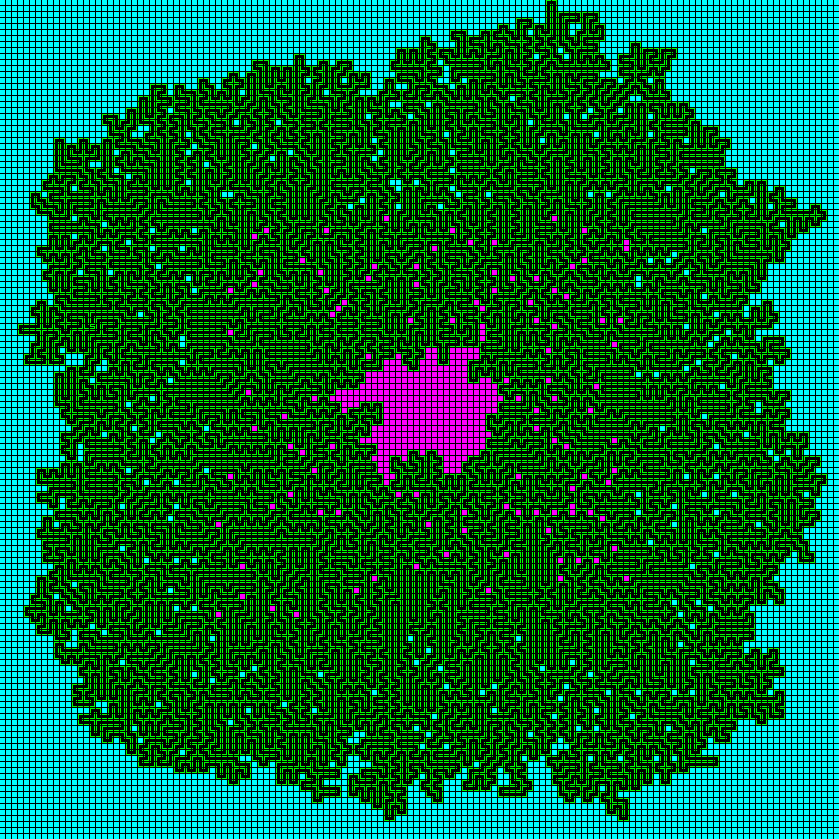
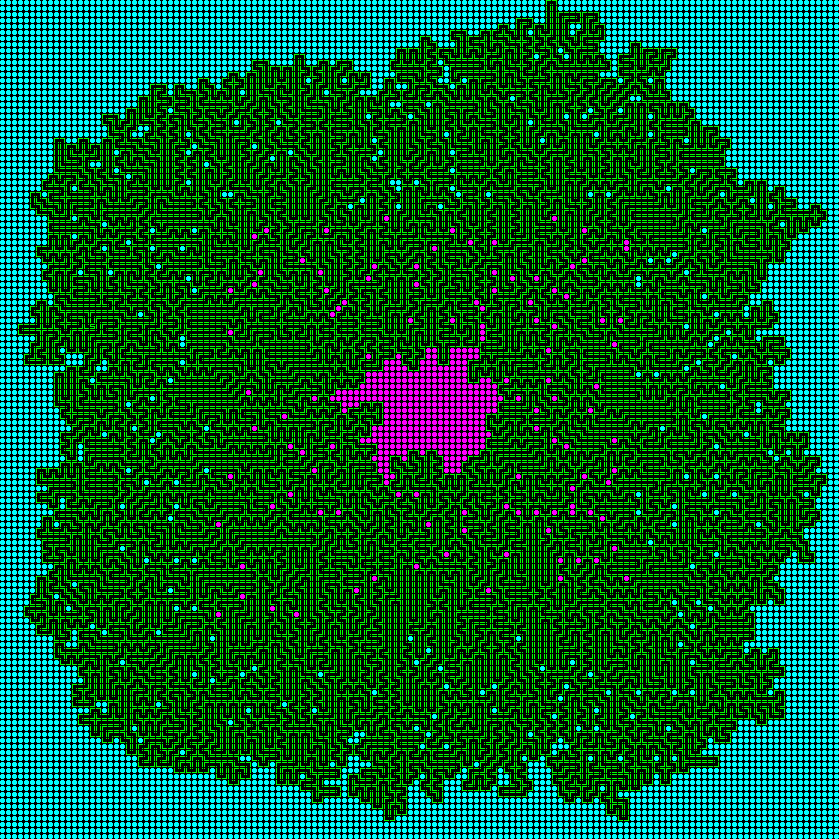
--amend

Changed region(s): [[0.0, 0.0, 1.0, 1.0], [0.4648, 0.4338, 0.5888, 0.5578]]

diff --git a/aoc-2023-kotlin/src/main/kotlin/days/day10/render.kt b/aoc-2023-kotlin/src/main/kotlin/days/day10/render.kt
@@ -27,8 +27,6 @@ fun main() {
                 g.fillRect((point.x * 6) + 4, (point.y * 6) + 2, 1, 3)
             }
             is Tile.Pipe -> {
-//                g.color = Color.YELLOW
-//                g.fillRect(point.x * 6, point.y * 6, 5, 5)
                 when (tile.char) {
                     '|' -> {
                         g.color = Color.GREEN
@@ -68,12 +66,14 @@ fun main() {
 
     internalPoints.forEach { point ->
         g.color = Color.MAGENTA
-        g.fillRect(point.x * 6, point.y * 6, 5, 5)
+        g.fillRect(point.x * 6 + 1, point.y * 6, 3, 5)
+        g.fillRect(point.x * 6, point.y * 6 + 1, 5, 3)
     }
 
     externalPoints.forEach { point ->
         g.color = Color.CYAN
-        g.fillRect(point.x * 6, point.y * 6, 5, 5)
+        g.fillRect(point.x * 6 + 1, point.y * 6, 3, 5)
+        g.fillRect(point.x * 6, point.y * 6 + 1, 5, 3)
     }
 
     g.dispose()
